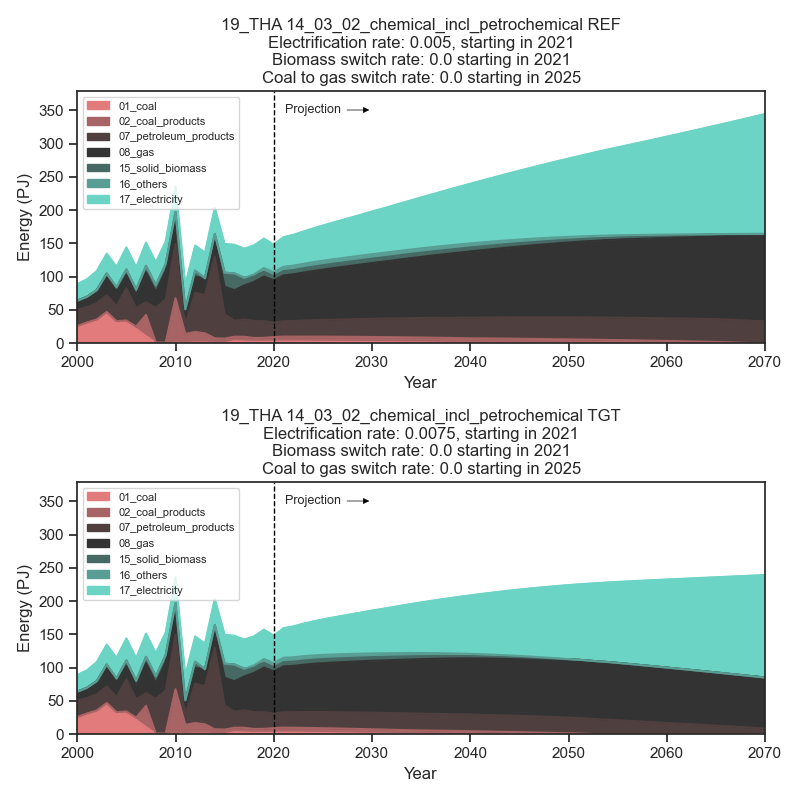
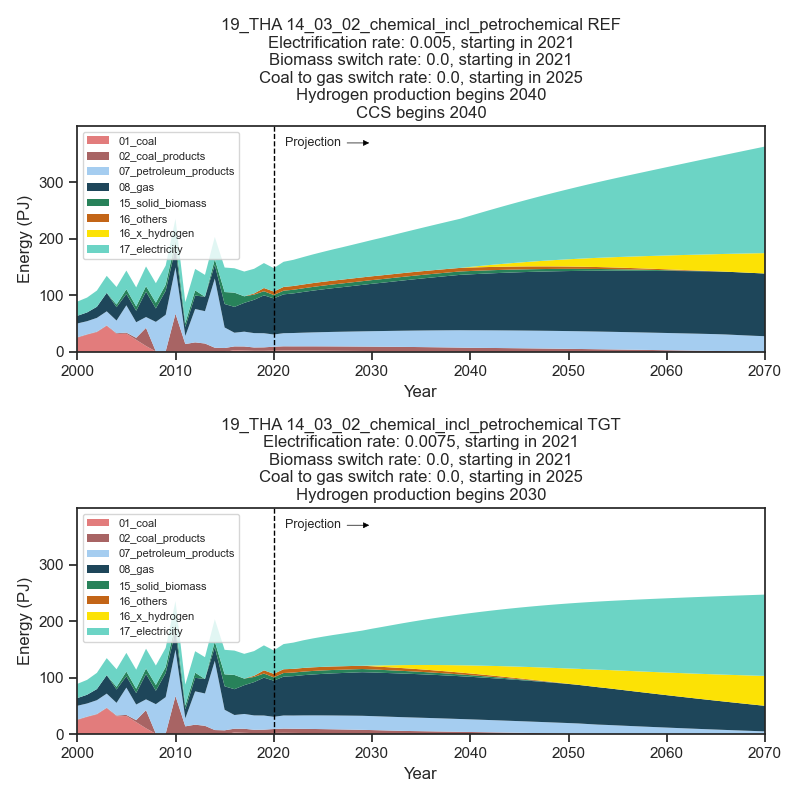
Fuel_switch_ccs

diff --git a/workflow/scripts/f2_fuel_switch_function.py b/workflow/scripts/f2_fuel_switch_function.py
@@ -37,6 +37,9 @@ no_biomass = ['12_solar', '15_solid_biomass', '17_electricity', '18_heat']
 to_gas = ['06_crude_oil_and_ngl', '07_petroleum_products', '08_gas', '12_solar', '15_solid_biomass',
           '16_others', '17_electricity', '18_heat']
 
+# CCS fuels
+ccs_fuels = ['01_coal', '02_coal_products', '08_gas']
+
 # Functions for Hydrogen and CCS
 # Hydrogen
 def hydrogen(fuel_mix = {'16_x_hydrogen': 0.5,
@@ -55,6 +58,16 @@ def hydrogen(fuel_mix = {'16_x_hydrogen': 0.5,
     hyd_df.columns = ['year', 'fuel', 'fuel_ratio', 'share']
 
     return hyd_df
+
+def ccs_tech(start_year = 2030,
+             increment = 0.01):
+
+    ccs_list = [[z, (z - start_year + 1) * increment] for z in range(start_year, proj_years[-1] + 1, 1)]
+    ccs_df = pd.DataFrame(ccs_list)
+
+    ccs_df.columns = ['year', 'share']
+
+    return ccs_df
 
 # Master function for all fuel switching
 def fuel_switch(economy = '01_AUS',
@@ -85,7 +98,7 @@ def fuel_switch(economy = '01_AUS',
                 ccs_tgt = False,
                 ccs_start_ref = 2040,
                 ccs_start_tgt = 2030,
-                ccs_increment_ref = 0.01,
+                ccs_increment_ref = 0.005,
                 ccs_increment_tgt = 0.01):
     
     # Save location for charts and data
@@ -344,13 +357,12 @@ def fuel_switch(economy = '01_AUS',
     switched_ref_calcs = switched_ref.copy()
 
     # Add in hydrogen for REF
-
     if (sector in ind2[:2]) & (hydrogen_ref):
         hyd_ref = hydrogen(fuel_mix = hyd_fuel_mix, start_year = hyd_start_ref, increment = hyd_increment_ref)
         for hyd_year in range(hyd_start_ref, proj_years[-1] + 1, 1):
             for fuel in switched_ref['fuels'].unique():
-                relevant_year = switched_ref['year'] == hyd_year
-                relevant_fuel = switched_ref['fuels'] == fuel   
+                relevant_year = (switched_ref['year'] == hyd_year)
+                relevant_fuel = (switched_ref['fuels'] == fuel)   
                 switched_ref.loc[(relevant_year) & (relevant_fuel), 'energy'] = switched_ref_calcs.loc[(relevant_year) & (relevant_fuel), 'energy'].values[0] *\
                     (1 - hyd_ref.loc[hyd_ref['year'] == hyd_year, 'share'].values[0])
 
@@ -375,11 +387,61 @@ def fuel_switch(economy = '01_AUS',
         
         hyd_ref.to_csv(hyd_ccs_location + economy + '_' + sector + '_hydrogen_ref.csv', index = False)
 
+        # Set-up for CCS (require snapshot of switched_ref for calcs below)
+        switched_ref_calcs2 = switched_ref.copy()
+
+        # Now layer in CCS for REF
+        if (sector in (ind2[:2] + ind2[3:4])) & (ccs_ref):
+            ccs_reference = ccs_tech(start_year = ccs_start_ref, increment = ccs_increment_ref)
+            ccs_ref_df = pd.DataFrame()
+            for ccs_year in range(ccs_start_ref, proj_years[-1] + 1, 1):
+                ccs_df = switched_ref.loc[switched_ref['year'] == ccs_year, ['fuels', 'energy']].copy().reset_index(drop = True)
+                ccs_df = ccs_df[ccs_df['fuels'].isin(ccs_fuels)].copy().reset_index(drop = True)
+                
+                ccs_df['share'] = ccs_df['energy'] / total_ref[ccs_year]
+                ccs_df['year'] = ccs_year
+                ccs_df['new_energy'] = ccs_df['energy'] * ccs_reference.loc[ccs_reference['year'] == ccs_year, 'share'].values[0]
+
+                # Amend original data frame
+                for fuel in ccs_df['fuels'].unique():
+                    relevant_fuel = (switched_ref['fuels'] == fuel)
+                    relevant_year = (switched_ref['year'] == ccs_year)
+                    switched_ref.loc[(relevant_fuel) & (relevant_year), 'energy'] = switched_ref_calcs2.loc[(relevant_fuel) & (relevant_year), 'energy'].values[0] *\
+                        (1 - ccs_reference.loc[ccs_reference['year'] == ccs_year, 'share'].values[0])
+
+                ccs_ref_df = pd.concat([ccs_ref_df, ccs_df]).copy().reset_index(drop = True)
+            
+            # Metadata
+            ccs_ref_df['scenarios'] = 'reference'
+            ccs_ref_df['economy'] = economy
+            ccs_ref_df['sectors'] = '14_industry_sector'
+            ccs_ref_df['sub1sectors'] = '14_03_manufacturing'
+            ccs_ref_df['sub2sectors'] = sector
+            if sector == ind2[0]:
+                ccs_ref_df['sub3sectors'] = '14_03_01_03_ccs'
+            elif sector == ind2[1]:
+                ccs_ref_df['sub3sectors'] = '14_03_02_02_ccs'
+            elif sector == ind2[3]:
+                ccs_ref_df['sub3sectors'] = '14_03_04_01_ccs'
+            ccs_ref_df['subfuels'] = 'x'
+
+            ccs_ref_df = ccs_ref_df[['scenarios', 'economy', 'sectors', 'sub1sectors', 'sub2sectors', 'sub3sectors', 'fuels', 'subfuels', 'year', 'new_energy']].copy()\
+                .rename(columns = {'new_energy': 'energy'}).sort_values(['year', 'fuels']).reset_index(drop = True)
+            
+            ccs_ref_df.to_csv(hyd_ccs_location + economy + '_' + sector + '_ccs_ref.csv', index = False) 
+
         # Now aggregate hydorgen results with steel
         switched_ref = switched_ref.merge(hyd_ref.drop(['sub3sectors'], axis = 1), how = 'outer',
                                           on = ['scenarios', 'economy', 'sectors', 'sub1sectors', 'sub2sectors', 'fuels', 'subfuels', 'year']).reset_index(drop = True)
         
         switched_ref['energy'] = switched_ref['energy_x'].fillna(0) + switched_ref['energy_y'].fillna(0)        
+        switched_ref = switched_ref.drop(['energy_x', 'energy_y'], axis = 1)
+
+        # Now do the same addition but for the CCS results
+        switched_ref = switched_ref.merge(ccs_ref_df.drop(['sub3sectors'], axis = 1), how = 'outer',
+                                          on = ['scenarios', 'economy', 'sectors', 'sub1sectors', 'sub2sectors', 'fuels', 'subfuels', 'year']).reset_index(drop = True)
+        
+        switched_ref['energy'] = switched_ref['energy_x'].fillna(0) + switched_ref['energy_y'].fillna(0)
         switched_ref = switched_ref.drop(['energy_x', 'energy_y'], axis = 1)
 
         switched_ref = switched_ref.sort_values(['year', 'fuels']).copy().reset_index(drop = True)
@@ -471,6 +533,49 @@ def fuel_switch(economy = '01_AUS',
         
         hyd_tgt.to_csv(hyd_ccs_location + economy + '_' + sector + '_hydrogen_tgt.csv', index = False)
 
+        # Set-up for CCS (require snapshot of switched_ref for calcs below)
+        switched_tgt_calcs2 = switched_tgt.copy()
+
+        # Now layer in CCS for TGT
+        if (sector in (ind2[:2] + ind2[3:4])) & (ccs_tgt):
+            ccs_target = ccs_tech(start_year = ccs_start_tgt, increment = ccs_increment_tgt)
+            ccs_tgt_df = pd.DataFrame()
+            for ccs_year in range(ccs_start_tgt, proj_years[-1] + 1, 1):
+                ccs_df = switched_tgt.loc[switched_tgt['year'] == ccs_year, ['fuels', 'energy']].copy().reset_index(drop = True)
+                ccs_df = ccs_df[ccs_df['fuels'].isin(ccs_fuels)].copy().reset_index(drop = True)
+                
+                ccs_df['share'] = ccs_df['energy'] / total_tgt[ccs_year]
+                ccs_df['year'] = ccs_year
+                ccs_df['new_energy'] = ccs_df['energy'] * ccs_target.loc[ccs_target['year'] == ccs_year, 'share'].values[0]
+
+                # Amend original data frame
+                for fuel in ccs_df['fuels'].unique():
+                    relevant_fuel = (switched_tgt['fuels'] == fuel)
+                    relevant_year = (switched_tgt['year'] == ccs_year)
+                    switched_tgt.loc[(relevant_fuel) & (relevant_year), 'energy'] = switched_tgt_calcs2.loc[(relevant_fuel) & (relevant_year), 'energy'].values[0] *\
+                        (1 - ccs_target.loc[ccs_target['year'] == ccs_year, 'share'].values[0])
+
+                ccs_tgt_df = pd.concat([ccs_tgt_df, ccs_df]).copy().reset_index(drop = True)
+            
+            # Metadata
+            ccs_tgt_df['scenarios'] = 'target'
+            ccs_tgt_df['economy'] = economy
+            ccs_tgt_df['sectors'] = '14_industry_sector'
+            ccs_tgt_df['sub1sectors'] = '14_03_manufacturing'
+            ccs_tgt_df['sub2sectors'] = sector
+            if sector == ind2[0]:
+                ccs_tgt_df['sub3sectors'] = '14_03_01_03_ccs'
+            elif sector == ind2[1]:
+                ccs_tgt_df['sub3sectors'] = '14_03_02_02_ccs'
+            elif sector == ind2[3]:
+                ccs_tgt_df['sub3sectors'] = '14_03_04_01_ccs'
+            ccs_tgt_df['subfuels'] = 'x'
+
+            ccs_tgt_df = ccs_tgt_df[['scenarios', 'economy', 'sectors', 'sub1sectors', 'sub2sectors', 'sub3sectors', 'fuels', 'subfuels', 'year', 'new_energy']].copy()\
+                .rename(columns = {'new_energy': 'energy'}).sort_values(['year', 'fuels']).reset_index(drop = True)
+            
+            ccs_tgt_df.to_csv(hyd_ccs_location + economy + '_' + sector + '_ccs_tgt.csv', index = False)
+
         # Now aggregate hydorgen results with steel
         switched_tgt = switched_tgt.merge(hyd_tgt.drop(['sub3sectors'], axis = 1), how = 'outer',
                                           on = ['scenarios', 'economy', 'sectors', 'sub1sectors', 'sub2sectors', 'fuels', 'subfuels', 'year']).reset_index(drop = True)
@@ -478,8 +583,14 @@ def fuel_switch(economy = '01_AUS',
         switched_tgt['energy'] = switched_tgt['energy_x'].fillna(0) + switched_tgt['energy_y'].fillna(0)        
         switched_tgt = switched_tgt.drop(['energy_x', 'energy_y'], axis = 1)
 
-        switched_tgt = switched_tgt.sort_values(['year', 'fuels']).copy().reset_index(drop = True)    
+        # Now do the same addition but for the CCS results
+        switched_tgt = switched_tgt.merge(ccs_tgt_df.drop(['sub3sectors'], axis = 1), how = 'outer',
+                                          on = ['scenarios', 'economy', 'sectors', 'sub1sectors', 'sub2sectors', 'fuels', 'subfuels', 'year']).reset_index(drop = True)
+        
+        switched_tgt['energy'] = switched_tgt['energy_x'].fillna(0) + switched_tgt['energy_y'].fillna(0)
+        switched_tgt = switched_tgt.drop(['energy_x', 'energy_y'], axis = 1)
 
+        switched_tgt = switched_tgt.sort_values(['year', 'fuels']).copy().reset_index(drop = True)    
 
     # Attach historical data
     if sector in [ind1[0], ind1[1]]:
@@ -555,14 +666,14 @@ def fuel_switch(economy = '01_AUS',
         chart_title_ref = economy + ' ' + sector + ' REF\n' + 'Electrification rate: ' + str(elec_rate_ref) + \
             ', starting in ' + str(elec_start_ref) + '\nBiomass switch rate: ' + str(bio_rate_ref) + \
                 ', starting in ' + str(bio_start_ref) + '\nCoal to gas switch rate: ' + str(c2g_rate_ref) + \
-                    ', starting in ' + str(c2g_start_ref) + '\nHydrogen production begins ' + str(hyd_start_ref) + \
+                    ', starting in ' + str(c2g_start_ref) + '\nHydrogen-based production begins ' + str(hyd_start_ref) + \
                     '\nCCS begins ' + str(ccs_start_ref)
     
     elif hydrogen_ref & (ccs_ref == False):
         chart_title_ref = economy + ' ' + sector + ' REF\n' + 'Electrification rate: ' + str(elec_rate_ref) + \
             ', starting in ' + str(elec_start_ref) + '\nBiomass switch rate: ' + str(bio_rate_ref) + \
                 ', starting in ' + str(bio_start_ref) + '\nCoal to gas switch rate: ' + str(c2g_rate_ref) + \
-                    ', starting in ' + str(c2g_start_ref) + '\nHydrogen production begins ' + str(hyd_start_ref)
+                    ', starting in ' + str(c2g_start_ref) + '\nHydrogen-based production begins ' + str(hyd_start_ref)
         
     elif (hydrogen_ref == False) & ccs_ref:
         chart_title_ref = economy + ' ' + sector + ' REF\n' + 'Electrification rate: ' + str(elec_rate_ref) + \
@@ -586,14 +697,14 @@ def fuel_switch(economy = '01_AUS',
         chart_title_tgt = economy + ' ' + sector + ' TGT\n' + 'Electrification rate: ' + str(elec_rate_tgt) + \
             ', starting in ' + str(elec_start_tgt) + '\nBiomass switch rate: ' + str(bio_rate_tgt) + \
                 ', starting in ' + str(bio_start_tgt) + '\nCoal to gas switch rate: ' + str(c2g_rate_tgt) + \
-                    ', starting in ' + str(c2g_start_tgt) + '\nHydrogen production begins ' + str(hyd_start_tgt) + \
+                    ', starting in ' + str(c2g_start_tgt) + '\nHydrogen-based production begins ' + str(hyd_start_tgt) + \
                     '\nCCS begins ' + str(ccs_start_tgt)
     
     elif hydrogen_tgt & (ccs_tgt == False):
         chart_title_tgt = economy + ' ' + sector + ' TGT\n' + 'Electrification rate: ' + str(elec_rate_tgt) + \
             ', starting in ' + str(elec_start_tgt) + '\nBiomass switch rate: ' + str(bio_rate_tgt) + \
                 ', starting in ' + str(bio_start_tgt) + '\nCoal to gas switch rate: ' + str(c2g_rate_tgt) + \
-                    ', starting in ' + str(c2g_start_tgt) + '\nHydrogen production begins ' + str(hyd_start_tgt)
+                    ', starting in ' + str(c2g_start_tgt) + '\nHydrogen-based production begins ' + str(hyd_start_tgt)
         
     elif (hydrogen_tgt == False) & ccs_tgt:
         chart_title_tgt = economy + ' ' + sector + ' TGT\n' + 'Electrification rate: ' + str(elec_rate_tgt) + \
@@ -650,4 +761,4 @@ def fuel_switch(economy = '01_AUS',
 
 
 # Iron and steel
-fuel_switch(economy = '19_THA', sector = ind2[0], hydrogen_ref = True, hydrogen_tgt = True)
+fuel_switch(economy = '19_THA', sector = ind2[3], hydrogen_ref = False, hydrogen_tgt = False, ccs_ref = True)
